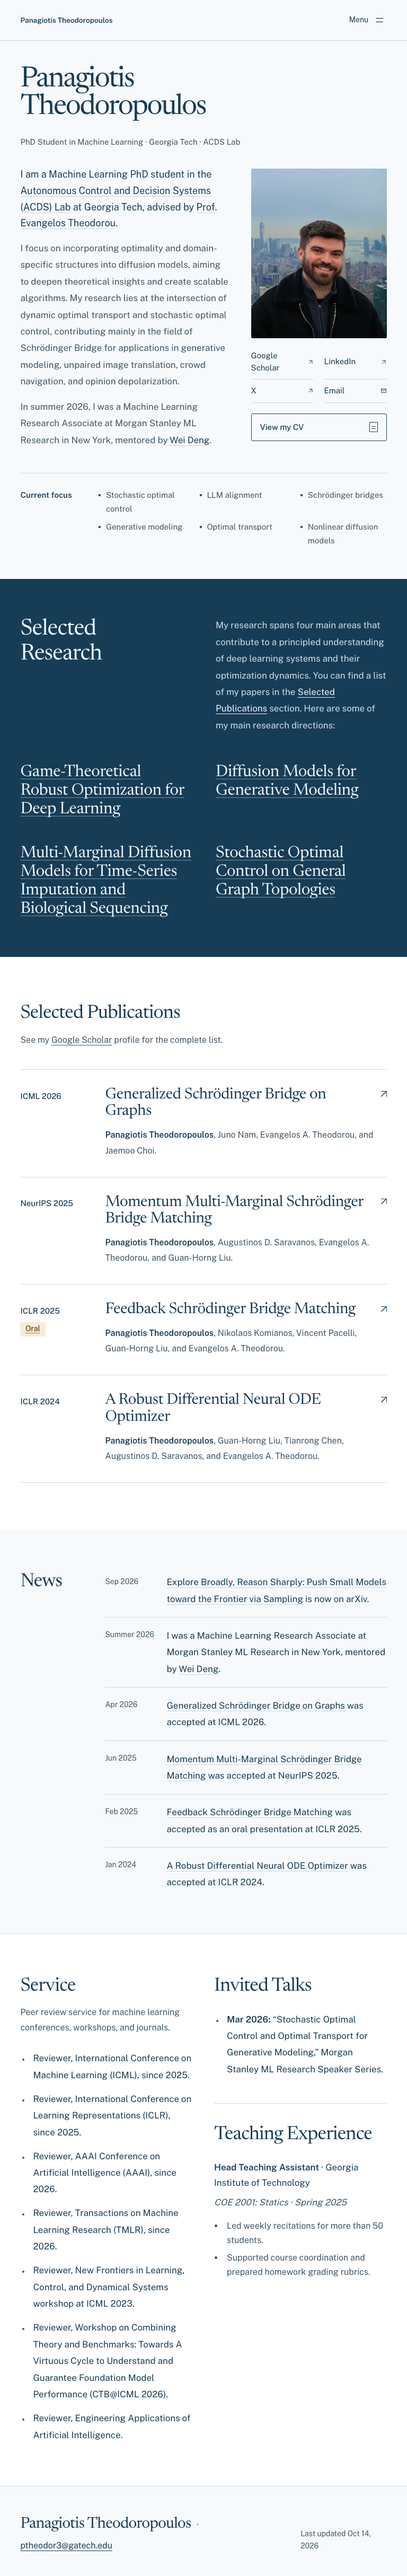
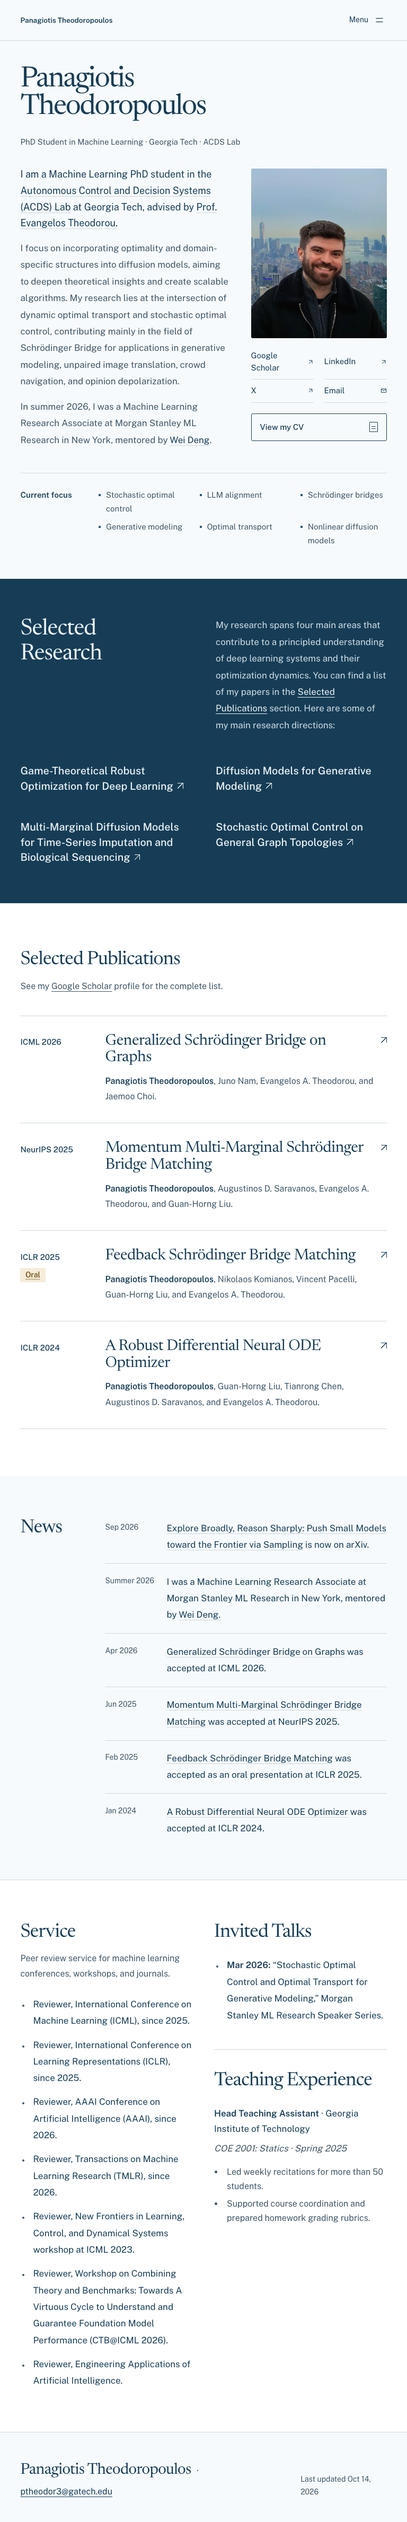
Simplify selected research title typography

diff --git a/assets/site.css b/assets/site.css
@@ -297,22 +297,18 @@ h1 span { display: block; }
   list-style: none;
 }
 .research-list h3 {
-  max-width: 28ch;
-  font-family: var(--serif);
-  font-size: clamp(1.75rem, 2.5vw, 2.5rem);
-  line-height: 1.25;
-  letter-spacing: -0.015em;
+  font-family: var(--sans);
+  font-size: clamp(1.125rem, 1rem + 0.5vw, 1.5rem);
+  font-weight: 500;
+  line-height: 1.45;
 }
 .research-list a {
   display: block;
   min-block-size: 2.75rem;
-  text-decoration-line: underline;
-  text-decoration-color: #7394a8;
-  text-decoration-thickness: 1px;
-  text-underline-offset: 0.18em;
+  text-decoration: none;
   overflow-wrap: break-word;
 }
-.publication h3 a::after {
+.research-list a::after, .publication h3 a::after {
   flex: 0 0 auto;
   width: 0.6rem;
   height: 0.6rem;
@@ -320,6 +316,11 @@ h1 span { display: block; }
   border-right: 1px solid currentColor;
   background: linear-gradient(135deg, transparent 44%, currentColor 46% 54%, transparent 56%) center / 100% 100% no-repeat;
   content: "";
+}
+.research-list a::after {
+  display: inline-block;
+  margin-inline-start: 0.5rem;
+  vertical-align: 0.1em;
 }
 .publications-section { padding-block: 5.5rem; background: var(--surface); }
 .publications-section .section-header { display: flex; align-items: baseline; justify-content: space-between; gap: 2rem; padding-bottom: 2.5rem; }
@@ -403,7 +404,6 @@ h1 span { display: block; }
   .hero-social a:hover { border-color: currentColor; }
   .button:hover { color: var(--paper); background: var(--ink); }
   .research-section a:hover { color: #ffffff; }
-  .research-list a:hover { text-decoration-color: currentColor; }
   .publication h3 a:hover { text-decoration: underline; text-decoration-thickness: 1px; }
 }
 
@@ -572,7 +572,7 @@ h1 span { display: block; }
   .research-section { padding-block: 1.5rem; color: #000; background: #fff; border-block: 1px solid #bbb; }
   .research-copy, .research-copy a { color: #000; }
   .research-grid { gap: 2rem; }
-  .research-list h3 { font-size: 18pt; }
+  .research-list h3 { font-size: 13pt; }
   .research-list li { break-inside: avoid; }
   .section-title, .research-grid .section-title { font-size: 24pt; }
   .publication, .news-list li, .subsection, .teaching-card { break-inside: avoid; }

diff --git a/dist/client/assets/site.css b/dist/client/assets/site.css
@@ -297,22 +297,18 @@ h1 span { display: block; }
   list-style: none;
 }
 .research-list h3 {
-  max-width: 28ch;
-  font-family: var(--serif);
-  font-size: clamp(1.75rem, 2.5vw, 2.5rem);
-  line-height: 1.25;
-  letter-spacing: -0.015em;
+  font-family: var(--sans);
+  font-size: clamp(1.125rem, 1rem + 0.5vw, 1.5rem);
+  font-weight: 500;
+  line-height: 1.45;
 }
 .research-list a {
   display: block;
   min-block-size: 2.75rem;
-  text-decoration-line: underline;
-  text-decoration-color: #7394a8;
-  text-decoration-thickness: 1px;
-  text-underline-offset: 0.18em;
+  text-decoration: none;
   overflow-wrap: break-word;
 }
-.publication h3 a::after {
+.research-list a::after, .publication h3 a::after {
   flex: 0 0 auto;
   width: 0.6rem;
   height: 0.6rem;
@@ -320,6 +316,11 @@ h1 span { display: block; }
   border-right: 1px solid currentColor;
   background: linear-gradient(135deg, transparent 44%, currentColor 46% 54%, transparent 56%) center / 100% 100% no-repeat;
   content: "";
+}
+.research-list a::after {
+  display: inline-block;
+  margin-inline-start: 0.5rem;
+  vertical-align: 0.1em;
 }
 .publications-section { padding-block: 5.5rem; background: var(--surface); }
 .publications-section .section-header { display: flex; align-items: baseline; justify-content: space-between; gap: 2rem; padding-bottom: 2.5rem; }
@@ -403,7 +404,6 @@ h1 span { display: block; }
   .hero-social a:hover { border-color: currentColor; }
   .button:hover { color: var(--paper); background: var(--ink); }
   .research-section a:hover { color: #ffffff; }
-  .research-list a:hover { text-decoration-color: currentColor; }
   .publication h3 a:hover { text-decoration: underline; text-decoration-thickness: 1px; }
 }
 
@@ -572,7 +572,7 @@ h1 span { display: block; }
   .research-section { padding-block: 1.5rem; color: #000; background: #fff; border-block: 1px solid #bbb; }
   .research-copy, .research-copy a { color: #000; }
   .research-grid { gap: 2rem; }
-  .research-list h3 { font-size: 18pt; }
+  .research-list h3 { font-size: 13pt; }
   .research-list li { break-inside: avoid; }
   .section-title, .research-grid .section-title { font-size: 24pt; }
   .publication, .news-list li, .subsection, .teaching-card { break-inside: avoid; }

diff --git a/README.md b/README.md
@@ -77,6 +77,6 @@ Profile links use aligned text rows with external-link cues and an envelope for 
 
 The footer update date was changed to October 14, 2026 at the owner's request. The preservation checks explicitly allow this date change while retaining the original content fixture.
 
-Selected Research presents the four original directions as prominent linked headings in two columns, stacking on mobile. Open spacing replaces divider rows and trailing arrows. The large research titles in [Overmind on Mobbin](https://mobbin.com/sites/sections/1b665755-3726-48ea-9f9c-32e8c2c7914b) informed the typographic emphasis. Chromium and WebKit checks cover eight widths from 320 to 1920 pixels, doubled text, and keyboard focus through all four links.
+Selected Research presents the four original directions as medium-weight Public Sans headings in two columns, stacking on mobile. Titles scale from 18 to 24px at the default browser size, with no underlines and small inline external-link arrows. Open spacing replaces divider rows. The research layouts in [Overmind on Mobbin](https://mobbin.com/sites/sections/1b665755-3726-48ea-9f9c-32e8c2c7914b) informed the grouping. Chromium and WebKit checks cover reflow, enlarged text and accessible links.
 
 Readability adjustments reduce the hero name by roughly 12–14% and use 17px body text, 16px secondary text, 15px interface text and 14px small labels at the default browser size, expressed in rem. Muted text is darker in light mode and lighter in dark mode. Measurements against the rendered backgrounds range from 7.31:1 to 11.94:1 for the inspected biography, introduction, research, author, focus and teaching text.
